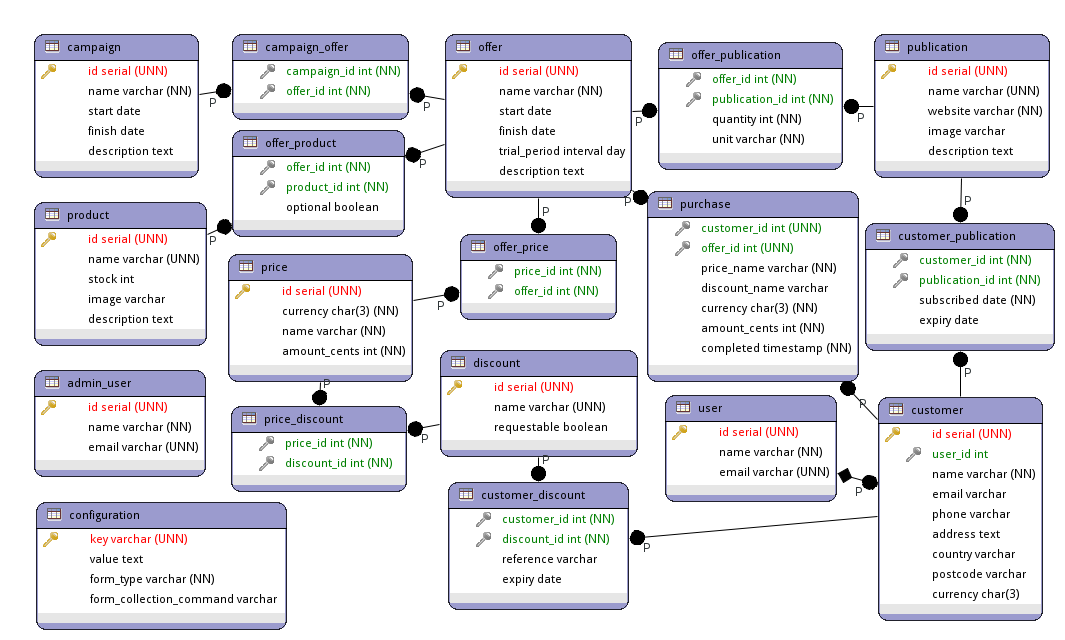
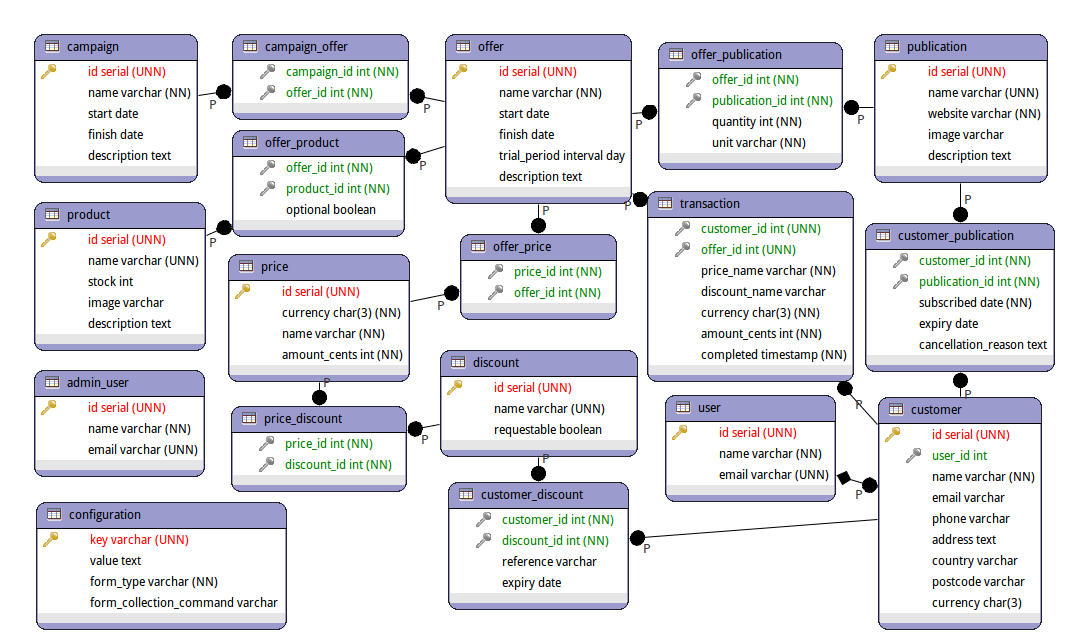
Add cancellation_reason field to customer_publications and update documentation

diff --git a/db/schema.rb b/db/schema.rb
@@ -98,12 +98,13 @@ ActiveRecord::Schema.define(version: 20150601051005) do
   add_index "customer_discounts", ["customer_id", "discount_id"], name: "index_customer_discounts_on_customer_id_and_discount_id", unique: true, using: :btree
 
   create_table "customer_publications", force: :cascade do |t|
-    t.integer  "customer_id",    null: false
-    t.integer  "publication_id", null: false
-    t.date     "subscribed",     null: false
+    t.integer  "customer_id",         null: false
+    t.integer  "publication_id",      null: false
+    t.date     "subscribed",          null: false
     t.date     "expiry"
-    t.datetime "created_at",     null: false
-    t.datetime "updated_at",     null: false
+    t.text     "cancellation_reason"
+    t.datetime "created_at",          null: false
+    t.datetime "updated_at",          null: false
   end
 
   add_index "customer_publications", ["customer_id", "publication_id"], name: "index_customer_publications_on_customer_id_and_publication_id", unique: true, using: :btree

diff --git a/db/migrate/20150601051005_create_customer_publications.rb b/db/migrate/20150601051005_create_customer_publications.rb
@@ -5,6 +5,7 @@ class CreateCustomerPublications < ActiveRecord::Migration
       t.belongs_to :publication, null: false, foreign_key: true
       t.date :subscribed, null: false
       t.date :expiry
+      t.text :cancellation_reason
 
       t.timestamps null: false
       t.index [:customer_id, :publication_id], unique: true

diff --git a/app/admin/customer.rb b/app/admin/customer.rb
@@ -80,6 +80,7 @@ ActiveAdmin.register Customer do
         fcp.input :publication
         fcp.input :subscribed, as: :datepicker
         fcp.input :expiry, as: :datepicker
+        fcp.input :cancellation_reason
       end
     end
     f.actions
